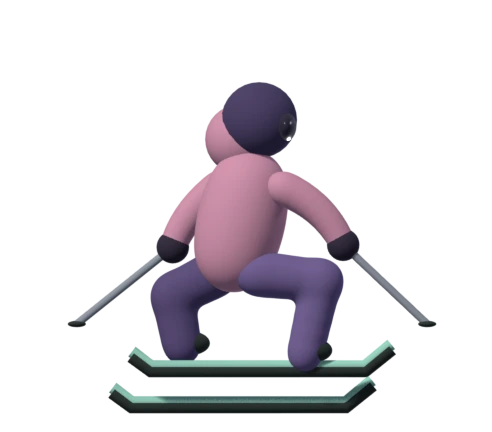
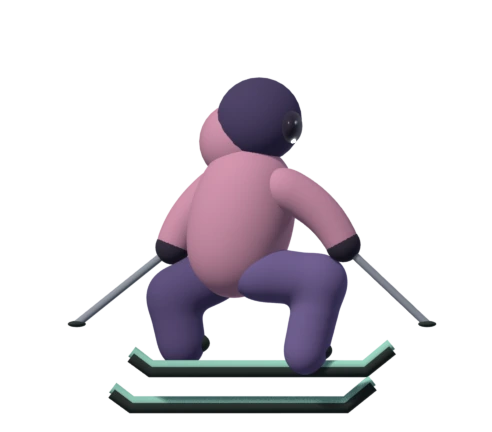
Skier: bigger on the way down, baggier, deeper stance, bigger helmet
- 40% larger once he drops in, grown on over half a second, feet kept on
  the line
- Wider jacket, sleeves and trousers; a bigger helmet with clear goggles
- Upper body lower and knees more bent; lamp and pointing marks follow

diff --git a/web/scripts/skier.py b/web/scripts/skier.py
@@ -146,7 +146,7 @@ def build_rider(c_legs, c_up, P, c_arm=None):
             for k in range(6):
                 t = k / 5
                 x = a[0] + (b[0] - a[0]) * t; y = a[1] + (b[1] - a[1]) * t
-                balls.append((V(x, y, d), 2.9 - 0.5 * (pts.index(a) + t) / max(1, len(pts) - 1)))
+                balls.append((V(x, y, d), 3.4 - 0.55 * (pts.index(a) + t) / max(1, len(pts) - 1)))
         blob(f'leg{i}', balls, M['violet'] if d < 0 else M['violetd'], c_legs)
         bx, by = pts[-1]
         ball(f'boot{i}', V(bx + 0.6, by - 0.4, d), 1.25, M['edge'], c_legs, (1.35, 1, 0.8))
@@ -156,7 +156,7 @@ def build_rider(c_legs, c_up, P, c_arm=None):
     for k in range(9):
         t = k / 8
         x = hx + (sx - hx) * t; y = hy + (sy - hy) * t
-        balls.append((V(x, y, 0), 4.4 + 0.6 * math.sin(t * math.pi)))
+        balls.append((V(x, y, 0), 5.0 + 0.9 * math.sin(t * math.pi)))
     jacket = blob('jacket', balls, M['pink'], c_up, res=0.2)
     # arms
     for i, (pts, d) in enumerate(P['arms']):
@@ -167,10 +167,10 @@ def build_rider(c_legs, c_up, P, c_arm=None):
         for k in range(10):
             t = k / 9
             q = a * (1 - t) ** 2 + c * 2 * (1 - t) * t + b * t * t
-            balls.append((V(q.x, q.y, d), 2.2 - 0.5 * t))
+            balls.append((V(q.x, q.y, d), 2.65 - 0.55 * t))
         blob(f'arm{i}', balls, M['pink'], cA)
         ex, ey = pts[-1]
-        ball(f'glove{i}', V(ex, ey, d), 1.35, M['glove'], cA)
+        ball(f'glove{i}', V(ex, ey, d), 1.45, M['glove'], cA)
     # poles
     for i, (pts, d) in enumerate(P['poles']):
         cA = c_arm if (c_arm and i == 1) else c_up
@@ -180,20 +180,20 @@ def build_rider(c_legs, c_up, P, c_arm=None):
     # head: helmet in the hood, goggles forward
     (cx, cy), face = P['head']
     # the hood lies behind and under the helmet, a collar of the jacket
-    ball('hoodball', V(cx - 1.6 * face, cy + 1.6, 1.2), 2.9, M['pink'], c_up)
-    ball('helmet', V(cx, cy, 0), 3.15, M['hood'], c_up)
-    ball('goggles', V(cx + 2.2 * face, cy + 0.5, -0.4), 1.5, M['gog'], c_up, (0.6, 1.9, 0.85))
+    ball('hoodball', V(cx - 1.7 * face, cy + 1.8, 1.2), 3.3, M['pink'], c_up)
+    ball('helmet', V(cx, cy, 0), 3.55, M['hood'], c_up)
+    ball('goggles', V(cx + 2.55 * face, cy + 0.5, -0.4), 1.75, M['gog'], c_up, (0.6, 1.9, 0.85))
     return M
 
 # --- the poses, in the SVG's own coordinates --------------------------------
 RIDE = dict(
     skis=[([(-0.4, 26.6), (1.0, 28.2), (3.4, 28.6), (20.6, 28.4), (23.2, 28.2), (24.6, 25.6)], -1.3),
           ([(0.6, 26.9), (2.0, 28.5), (4.4, 28.9), (21.6, 28.7), (24.2, 28.5), (25.6, 25.9)], 1.3)],
-    legs=[([(9.6, 19.5), (7.2, 23.6), (9.0, 27.6)], -1.6), ([(14.8, 19.5), (16.8, 23.4), (17.2, 27.4)], 1.6)],
-    torso=((11.2, 18.4), (14.0, 11.6)),
-    arms=[([(9.4, 12.4), (6.2, 14.6), (4.4, 17.2)], 2.2), ([(15.2, 11.6), (19.0, 13.2), (21.4, 15.8)], -2.2)],
-    poles=[([(4.6, 17.0), (-6.4, 19.8)], 2.4), ([(21.4, 15.8), (31.4, 18.8)], -2.4)],
-    head=((17.0, 7.3), 1),
+    legs=[([(9.6, 20.6), (6.4, 24.0), (9.0, 27.6)], -1.7), ([(14.8, 20.6), (17.8, 23.6), (17.2, 27.4)], 1.7)],
+    torso=((11.2, 19.6), (14.2, 13.2)),
+    arms=[([(9.4, 13.9), (6.0, 16.2), (4.2, 18.8)], 2.4), ([(15.2, 13.1), (19.0, 14.7), (21.4, 17.3)], -2.4)],
+    poles=[([(4.4, 18.6), (-6.6, 21.4)], 2.6), ([(21.4, 17.3), (31.4, 20.3)], -2.6)],
+    head=((17.4, 8.9), 1),
 )
 AIR = dict(
     skis=[([(3.4, 16.3), (4.6, 17.6), (23.0, 24.4), (25.2, 25.2), (26.1, 23.2)], -1.2),
@@ -222,9 +222,9 @@ def render(pose, name, split=False):
     sc = bpy.context.scene
     if split:
         # the pointing arm, straight out from the shoulder (rotated in CSS)
-        balls = [(V(15 + 8.8 * k / 9, 12, -2.2), 2.1 - 0.4 * k / 9) for k in range(10)]
+        balls = [(V(15 + 8.8 * k / 9, 13.4, -2.2), 2.55 - 0.45 * k / 9) for k in range(10)]
         blob('ptarm', balls, M['pink'], point)
-        ball('ptglove', V(24.2, 12, -2.2), 1.35, M['glove'], point)
+        ball('ptglove', V(24.2, 13.4, -2.2), 1.45, M['glove'], point)
         layers = dict(legs=legs, up=up, arm=arm, point=point)
         for tag, c in layers.items():
             for c2 in layers.values(): c2.hide_render = c2 is not c
